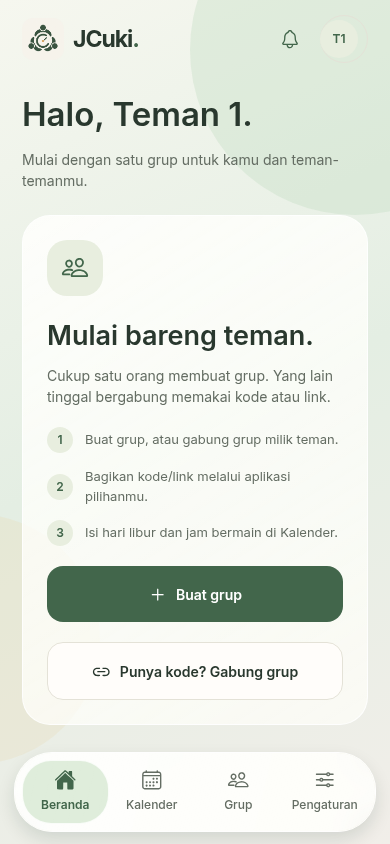
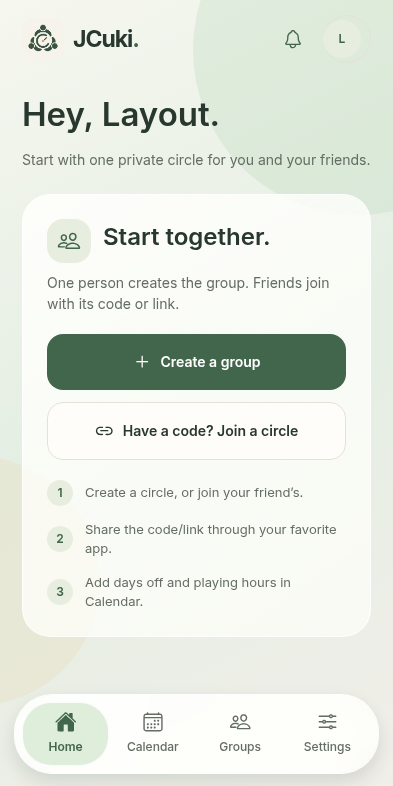
Keep group actions above navigation and verify visible keyboard geometry

diff --git a/src/components/groupStart.tsx b/src/components/groupStart.tsx
@@ -38,25 +38,40 @@ export function GroupStart() {
     );
   return (
     <Card style={{ padding: 24, gap: 20 }}>
-      <View
-        style={{
-          width: 56,
-          height: 56,
-          borderRadius: 20,
-          backgroundColor: colors.accentSoft,
-          alignItems: "center",
-          justifyContent: "center",
-        }}
-      >
-        <Icon name="people-outline" size={28} color={colors.accent} />
-      </View>
       <View style={{ gap: 9 }}>
-        <Txt heading weight="semibold" size={27}>
-          {t("startTogether")}
-        </Txt>
+        <Row style={{ alignItems: "flex-start" }}>
+          <View
+            style={{
+              width: 44,
+              height: 44,
+              borderRadius: 16,
+              backgroundColor: colors.accentSoft,
+              alignItems: "center",
+              justifyContent: "center",
+            }}
+          >
+            <Icon name="people-outline" size={24} color={colors.accent} />
+          </View>
+          <Txt heading weight="semibold" size={24} style={{ flex: 1 }}>
+            {t("startTogether")}
+          </Txt>
+        </Row>
         <Txt muted size={14}>
           {t("startTogetherHint")}
         </Txt>
+      </View>
+      <View style={{ gap: 12 }}>
+        <Button
+          title={t("createGroup")}
+          icon="add"
+          onPress={() => setOverlay({ kind: "createGroup" })}
+        />
+        <Button
+          title={t("joinWithCode")}
+          icon="link-outline"
+          kind="secondary"
+          onPress={() => setOverlay({ kind: "joinGroup" })}
+        />
       </View>
       <View style={{ gap: 14 }}>
         {(["groupStepOne", "groupStepTwo", "groupStepThree"] as const).map(
@@ -83,17 +98,6 @@ export function GroupStart() {
           ),
         )}
       </View>
-      <Button
-        title={t("createGroup")}
-        icon="add"
-        onPress={() => setOverlay({ kind: "createGroup" })}
-      />
-      <Button
-        title={t("joinWithCode")}
-        icon="link-outline"
-        kind="secondary"
-        onPress={() => setOverlay({ kind: "joinGroup" })}
-      />
     </Card>
   );
 }

diff --git a/src/i18n.ts b/src/i18n.ts
@@ -3,9 +3,9 @@ const id: Record<string, string> = {
   invalidGroupName: "Nama grup harus 2–40 karakter.",
   lastSync: "Terakhir disinkron",
   firstGroupWelcome: "Mulai dengan satu grup untuk kamu dan teman-temanmu.",
-  startTogether: "Mulai bareng teman.",
+  startTogether: "Mulai bareng.",
   startTogetherHint:
-    "Cukup satu orang membuat grup. Yang lain tinggal bergabung memakai kode atau link.",
+    "Satu orang membuat grup. Teman lainnya bergabung lewat kode atau link.",
   groupStepOne: "Buat grup, atau gabung grup milik teman.",
   groupStepTwo: "Bagikan kode/link melalui aplikasi pilihanmu.",
   groupStepThree: "Isi hari libur dan jam bermain di Kalender.",
@@ -343,9 +343,9 @@ const en: Record<string, string> = {
   invalidGroupName: "Use 2–40 characters for the circle name.",
   lastSync: "Last synced",
   firstGroupWelcome: "Start with one private circle for you and your friends.",
-  startTogether: "Make room for your people.",
+  startTogether: "Start together.",
   startTogetherHint:
-    "Only one person needs to create a circle. Everyone else joins with its code or link.",
+    "One person creates the group. Friends join with its code or link.",
   groupStepOne: "Create a circle, or join your friend’s.",
   groupStepTwo: "Share the code/link through your favorite app.",
   groupStepThree: "Add days off and playing hours in Calendar.",

diff --git a/src/app/(tabs)/index.tsx b/src/app/(tabs)/index.tsx
@@ -57,7 +57,7 @@ export default function Dashboard() {
     return (
       <Screen>
         <View style={{ gap: 9 }}>
-          <Txt heading size={33} weight="semibold">
+          <Txt heading size={33} weight="semibold" numberOfLines={1}>
             {t("welcome")}, {profile.nickname}.
           </Txt>
           <Txt muted>{t("firstGroupWelcome")}</Txt>

diff --git a/scripts/native-smoke.py b/scripts/native-smoke.py
@@ -21,7 +21,7 @@ CONFIG = Path('src/auth/config.ts').read_text()
 SUPABASE = os.environ.get('EXPO_PUBLIC_SUPABASE_URL') or re.search(r'https://[a-z]+\.supabase\.co', CONFIG).group()
 KEY = os.environ.get('EXPO_PUBLIC_SUPABASE_PUBLISHABLE_KEY') or re.search(r'sb_publishable_[^"\s]+', CONFIG).group()
 API = (os.environ.get('EXPO_PUBLIC_API_URL') or SUPABASE + '/functions/v1/jcuki').rstrip('/')
-EMAIL = 'jcuki.qa.native.' + os.environ.get('GITHUB_RUN_ID', str(int(time.time()))) + '.' + os.environ.get('ANDROID_API_LEVEL', 'local') + '@example.com'
+EMAIL = 'jcuki.qa.native.' + os.environ.get('GITHUB_RUN_ID', str(int(time.time()))) + '.' + os.environ.get('ANDROID_API_LEVEL', 'local') + '.' + secrets.token_hex(3) + '@example.com'
 PASSWORD = 'JcukiNative' + secrets.token_hex(16)
 TOKEN = None
 STEP = 'launch'
@@ -48,20 +48,31 @@ def http(path, method='GET', body=None, auth=False):
 
 
 def ui():
-    adb('shell', 'uiautomator', 'dump', '--compressed', '/sdcard/jcuki-ui.xml')
-    return ET.fromstring(adb('exec-out', 'cat', '/sdcard/jcuki-ui.xml'))
+    for _ in range(3):
+        try:
+            adb('shell', 'rm', '-f', '/sdcard/jcuki-ui.xml')
+            adb('shell', 'uiautomator', 'dump', '--compressed', '/sdcard/jcuki-ui.xml')
+            value = adb('exec-out', 'cat', '/sdcard/jcuki-ui.xml')
+            start = value.find('<hierarchy')
+            if start < 0:
+                raise ET.ParseError('Accessibility tree not ready')
+            return ET.fromstring(value[start:])
+        except (ET.ParseError, subprocess.CalledProcessError):
+            time.sleep(.7)
+    raise AssertionError('Accessibility tree was not ready after retries')
 
 
 def bounds(node):
     return tuple(map(int, re.findall(r'-?\d+', node.get('bounds', ''))))
 
 
-def find(label=None, test_id=None, field=False, timeout=30):
+def find(label=None, test_id=None, field=False, timeout=30, contains=False):
     deadline = time.monotonic() + timeout
     while time.monotonic() < deadline:
         tree = ui()
         for node in tree.iter('node'):
-            matches = (test_id and node.get('resource-id', '').split('/')[-1] == test_id) or (label and label in (node.get('text'), node.get('content-desc')))
+            labels = (node.get('text', ''), node.get('content-desc', ''))
+            matches = (test_id and node.get('resource-id', '').split('/')[-1] == test_id) or (label and (any(label in value for value in labels) if contains else label in labels))
             box = bounds(node)
             if matches and len(box) == 4 and box[2] > box[0] and box[3] > box[1] and (not field or node.get('class', '').endswith('EditText')):
                 return node
@@ -72,6 +83,9 @@ def find(label=None, test_id=None, field=False, timeout=30):
 def tap(label=None, test_id=None, field=False):
     node = find(label, test_id, field)
     x1, y1, x2, y2 = bounds(node)
+    fixed_labels = {'Create a group', 'Join a group', 'Create account', 'Log in', 'Home', 'Groups', 'Profile', 'Make a plan'}
+    control = test_id or (label if label in fixed_labels else 'control')
+    print('TAP', control, (x1, y1, x2, y2), flush=True)
     adb('shell', 'input', 'tap', str((x1 + x2) // 2), str((y1 + y2) // 2))
     return node
 
@@ -101,6 +115,9 @@ def keyboard_top():
             match = re.search(pattern, chunk)
             if match:
                 x1, y1, x2, y2 = map(int, match.groups())
+                inset = re.search(r'\bmGivenContentInsets=\[(\d+),(\d+)\]\[(\d+),(\d+)\]', chunk)
+                if inset:
+                    y1 += int(inset.group(2))
                 if y2 > y1 > 0:
                     candidates.append(y1)
                     break
@@ -113,35 +130,79 @@ def keyboard_top():
     return min(candidates)
 
 
+def screen_height():
+    return int(re.findall(r'\d+', adb('shell', 'wm', 'size'))[-1])
+
+
 def assert_above_keyboard(test_id):
-    deadline = time.monotonic() + 12
+    deadline = time.monotonic() + 20
+    height = screen_height()
+    last_top = height
+    last_bounds = ()
+    keyboard_visible = False
     while time.monotonic() < deadline:
-        node = find(test_id=test_id, field=True, timeout=8)
-        top = keyboard_top()
-        if bounds(node)[3] <= top:
+        node = find(test_id=test_id, field=True, timeout=5)
+        last_bounds = bounds(node)
+        try:
+            last_top = keyboard_top()
+            keyboard_visible = height - last_top >= height * .15
+        except AssertionError:
+            keyboard_visible = False
+        if not keyboard_visible:
+            # ADB physical-key injection can collapse the IME. A touch requests the real soft keyboard.
+            tap(test_id=test_id, field=True)
+            time.sleep(.7)
+            continue
+        if node.get('focused') == 'true' and 0 <= last_bounds[1] and last_bounds[3] <= last_top:
+            print('PASS keyboard bounds', test_id, last_bounds, 'IME top', last_top, flush=True)
             return
-        time.sleep(0.5)
-    raise AssertionError('Focused input is hidden under the keyboard: ' + test_id)
+        time.sleep(.5)
+    raise AssertionError(('Focused input is covered' if keyboard_visible else 'Soft keyboard did not open') + ': ' + test_id + ' bounds=' + str(last_bounds) + ' IME top=' + str(last_top))
 
 
 def hide_keyboard():
+    try:
+        if screen_height() - keyboard_top() < screen_height() * .15:
+            return
+    except AssertionError:
+        return
     adb('shell', 'input', 'keyevent', '4')
-    time.sleep(0.5)
+    time.sleep(.5)
 
 
-def scroll_to(label):
-    for _ in range(5):
+def scroll_to(label=None, test_id=None):
+    height = screen_height()
+    for _ in range(7):
         try:
-            return find(label=label, timeout=3)
+            node = find(label=label, test_id=test_id, timeout=2)
+            box = bounds(node)
+            # UIAutomator can expose controls underneath the floating tab bar.
+            if height * .10 <= box[1] and box[3] <= height * .80:
+                return node
         except AssertionError:
-            size = list(map(int, re.findall(r'\d+', adb('shell', 'wm', 'size'))[-2:]))
-            w, h = size
-            adb('shell', 'input', 'swipe', str(w // 2), str(int(h * .73)), str(w // 2), str(int(h * .28)), '350')
-    return find(label=label)
+            pass
+        w, h = map(int, re.findall(r'\d+', adb('shell', 'wm', 'size'))[-2:])
+        adb('shell', 'input', 'swipe', str(w // 2), str(int(h * .73)), str(w // 2), str(int(h * .28)), '350')
+    return find(label=label, test_id=test_id)
 
 
-def screenshot(name):
-    (OUT / (name + '.png')).write_bytes(adb('exec-out', 'screencap', '-p', binary=True))
+def record_geometry(name):
+    # Only fixed control IDs and numeric coordinates leave the emulator. No pixels or input text.
+    controls = []
+    for node in ui().iter('node'):
+        control = node.get('resource-id', '').split('/')[-1]
+        if re.fullmatch(r'auth-(?:fullName|nickname|email|password|confirmPassword)|group-name|invite-code|plan-title|avatar-image|connect-submit|plan-submit', control):
+            controls.append({'control': control, 'bounds': bounds(node), 'focused': node.get('focused') == 'true'})
+    fixed_labels = {'Create a group': 'create-group', 'Join a group': 'join-group', 'Groups': 'groups-tab', 'Home': 'home-tab', 'Calendar': 'calendar-tab', 'Find your circle.': 'connect-heading'}
+    for node in ui().iter('node'):
+        label = node.get('content-desc') or node.get('text')
+        if label in fixed_labels:
+            controls.append({'control': fixed_labels[label], 'bounds': bounds(node), 'selected': node.get('selected') == 'true'})
+    try:
+        top = keyboard_top()
+    except AssertionError:
+        top = None
+    (OUT / (name + '.json')).write_text(json.dumps({'controls': controls, 'keyboard_top': top}))
 
 
 def launch():
@@ -182,7 +243,7 @@ try:
         assert_above_keyboard(test_id)
         adb('shell', 'input', 'text', shlex.quote(value))
     assert_above_keyboard('auth-confirmPassword')
-    screenshot('register-keyboard')
+    record_geometry('register-keyboard')
     hide_keyboard()
     scroll_to('Create account')
     tap('Create account')
@@ -191,25 +252,29 @@ try:
     TOKEN = http('/auth/v1/token?grant_type=password', 'POST', {'email': EMAIL, 'password': PASSWORD}, auth=True)['access_token']
     profile = http('/api/me')
     assert profile['nickname'] == 'Native', 'Native signup did not persist the profile'
-    screenshot('first-group')
+    record_geometry('first-group')
     STEP = 'create circle keyboard'
+    record_geometry('before-create')
+    scroll_to('Create a group')
     tap('Create a group')
     type_in('group-name', 'Native QA Circle')
     assert_above_keyboard('group-name')
     hide_keyboard()
+    scroll_to(test_id='connect-submit')
     tap(test_id='connect-submit')
     find('Share invitation', timeout=40)
     groups = http('/api/groups')['items']
     assert len(groups) == 1 and groups[0]['name'] == 'Native QA Circle', 'Circle did not persist'
     code = groups[0]['code']
-    screenshot('circle-created')
+    record_geometry('circle-created')
     STEP = 'join link keyboard'
     scroll_to('Join a group')
     tap('Join a group')
     type_in('invite-code', 'jcuki://join?code=' + code)
     assert_above_keyboard('invite-code')
-    screenshot('join-keyboard')
+    record_geometry('join-keyboard')
     hide_keyboard()
+    scroll_to(test_id='connect-submit')
     tap(test_id='connect-submit')
     find('Share invitation', timeout=40)
     STEP = 'plan sheet keyboard'
@@ -218,10 +283,11 @@ try:
     tap('Make a plan')
     type_in('plan-title', 'Native QA Hangout')
     assert_above_keyboard('plan-title')
-    screenshot('plan-keyboard')
+    record_geometry('plan-keyboard')
     hide_keyboard()
+    scroll_to(test_id='plan-submit')
     tap(test_id='plan-submit')
-    find('Native QA Hangout', timeout=40)
+    find('Native QA Hangout', timeout=40, contains=True)
     STEP = 'private photo persistence'
     import base64
     image = png()
@@ -229,9 +295,10 @@ try:
     adb('shell', 'am', 'force-stop', PACKAGE)
     launch()
     tap('Profile')
-    find('Saved to your account', timeout=40)
     find(test_id='avatar-image', timeout=35)
-    screenshot('account-avatar')
+    record_geometry('account-avatar')
+    scroll_to('Saved to your account')
+    find('Saved to your account', timeout=40)
     STEP = 'fresh device account recovery'
     adb('shell', 'pm', 'clear', PACKAGE)
     launch()
@@ -241,7 +308,7 @@ try:
     find(code, timeout=45)
     tap('Profile')
     find(test_id='avatar-image', timeout=35)
-    screenshot('restored-account')
+    record_geometry('restored-account')
     STEP = 'offline avatar after process restart'
     adb('shell', 'svc', 'wifi', 'disable')
     adb('shell', 'svc', 'data', 'disable')
@@ -249,20 +316,11 @@ try:
     launch()
     tap('Profile')
     find(test_id='avatar-image', timeout=30)
-    screenshot('offline-avatar')
+    record_geometry('offline-avatar')
     print('PASS native keyboard positioning, direct signup, server profile/group sync, join link, fresh-device login and private avatar restart/offline cache')
 except Exception as error:
     try:
-        screenshot('failure')
-        (OUT / 'failure-ui.xml').write_text(ET.tostring(ui(), encoding='unicode'))
-        (OUT / 'failure-keyboard.txt').write_text(adb('shell', 'dumpsys', 'window', 'windows'))
-        # Labels aid CI debugging; input values, email addresses and credentials stay private.
-        for node in ui().iter('node'):
-            if node.get('class', '').endswith('EditText') or node.get('password') == 'true':
-                continue
-            label = node.get('content-desc') or node.get('text') or node.get('resource-id')
-            if label and '@' not in label and PASSWORD not in label:
-                print('VISIBLE', label[:140], node.get('bounds'))
+        record_geometry('failure')
     except Exception:
         pass
     print('FAIL native check at:', STEP, type(error).__name__, str(error))

diff --git a/tests/README.native.md b/tests/README.native.md
@@ -4,4 +4,6 @@ The Android smoke test boots the release APK on an Android emulator, checks focu
 
 The QA account uses a unique `jcuki.qa.native.*@example.com` address and a random password kept only in the runner process. No verification email is sent. It contains test profile/group data only; no existing users' data is changed or deleted. Public client configuration is used; no service-role key is needed or logged. QA records remain clearly labelled in the development Supabase project.
 
-Native failure artifacts contain screenshots and the test UI hierarchy, not tokens/password logs. Browser checks remain useful for layout and three-user scheduling, but they cannot prove IME or native filesystem behavior.
+Native artifacts contain only fixed control IDs, numeric bounds, focus flags and the visible keyboard position. Screenshots, input values, raw UI XML, window dumps, tokens and passwords are never uploaded. UI XML is read temporarily within the isolated emulator to find controls; only numeric geometry leaves it. Browser checks remain useful for layout and three-user scheduling, but they cannot prove IME or native filesystem behavior.
+
+The IME window can fill the display even when its visible content is small. The checker includes `mGivenContentInsets` in the window coordinates and requires a full soft keyboard before asserting that the focused input is above it. A touch reopens the soft keyboard when ADB physical-key injection collapses it.

diff --git a/docs/UX-DESIGN.md b/docs/UX-DESIGN.md
@@ -78,3 +78,5 @@ GlassView native diaktifkan hanya bila iOS mendukung kedua pemeriksaan ketersedi
 Beranda menjadi titik awal setelah login. Untuk akun tanpa grup, panduan tiga langkah menyusun urutan: buat/gabung, bagikan undangan, isi kalender. Create dan join menjadi halaman penuh dengan navigasi kembali; tempel kode/link mendapat tombol sendiri dan kesalahan tampil dekat formulir. Setelah berhasil, kartu grup langsung menampilkan kode dan aksi berbagi, disusul tombol menuju kalender.
 
 Formulir utama memakai KeyboardAwareScrollView yang mengikuti fokus dan animasi keyboard; sheet menyesuaikan tinggi. Keyboard tidak dipanaskan saat peluncuran, menghindari kilatan IME. Tab navigasi tetap disembunyikan saat mengetik. Foto tidak lagi kembali ke inisial setiap sesi diperbarui; gambar yang sudah tersedia dipertahankan selama pemuatan ulang. Status cloud menjelaskan apakah data benar-benar berhasil dibaca dari server, dan demo menyebutkan bahwa akun tidak dibuat.
+
+Kartu awal grup memakai judul ringkas serta tombol buat/gabung sebelum penjelasan tiga langkah. Susunan ini menjaga kedua tindakan mudah dijangkau pada layar pendek dan memberi ruang terhadap navigasi mengambang. Nama panjang pada sapaan diringkas satu baris agar tidak menggeser tindakan utama.
